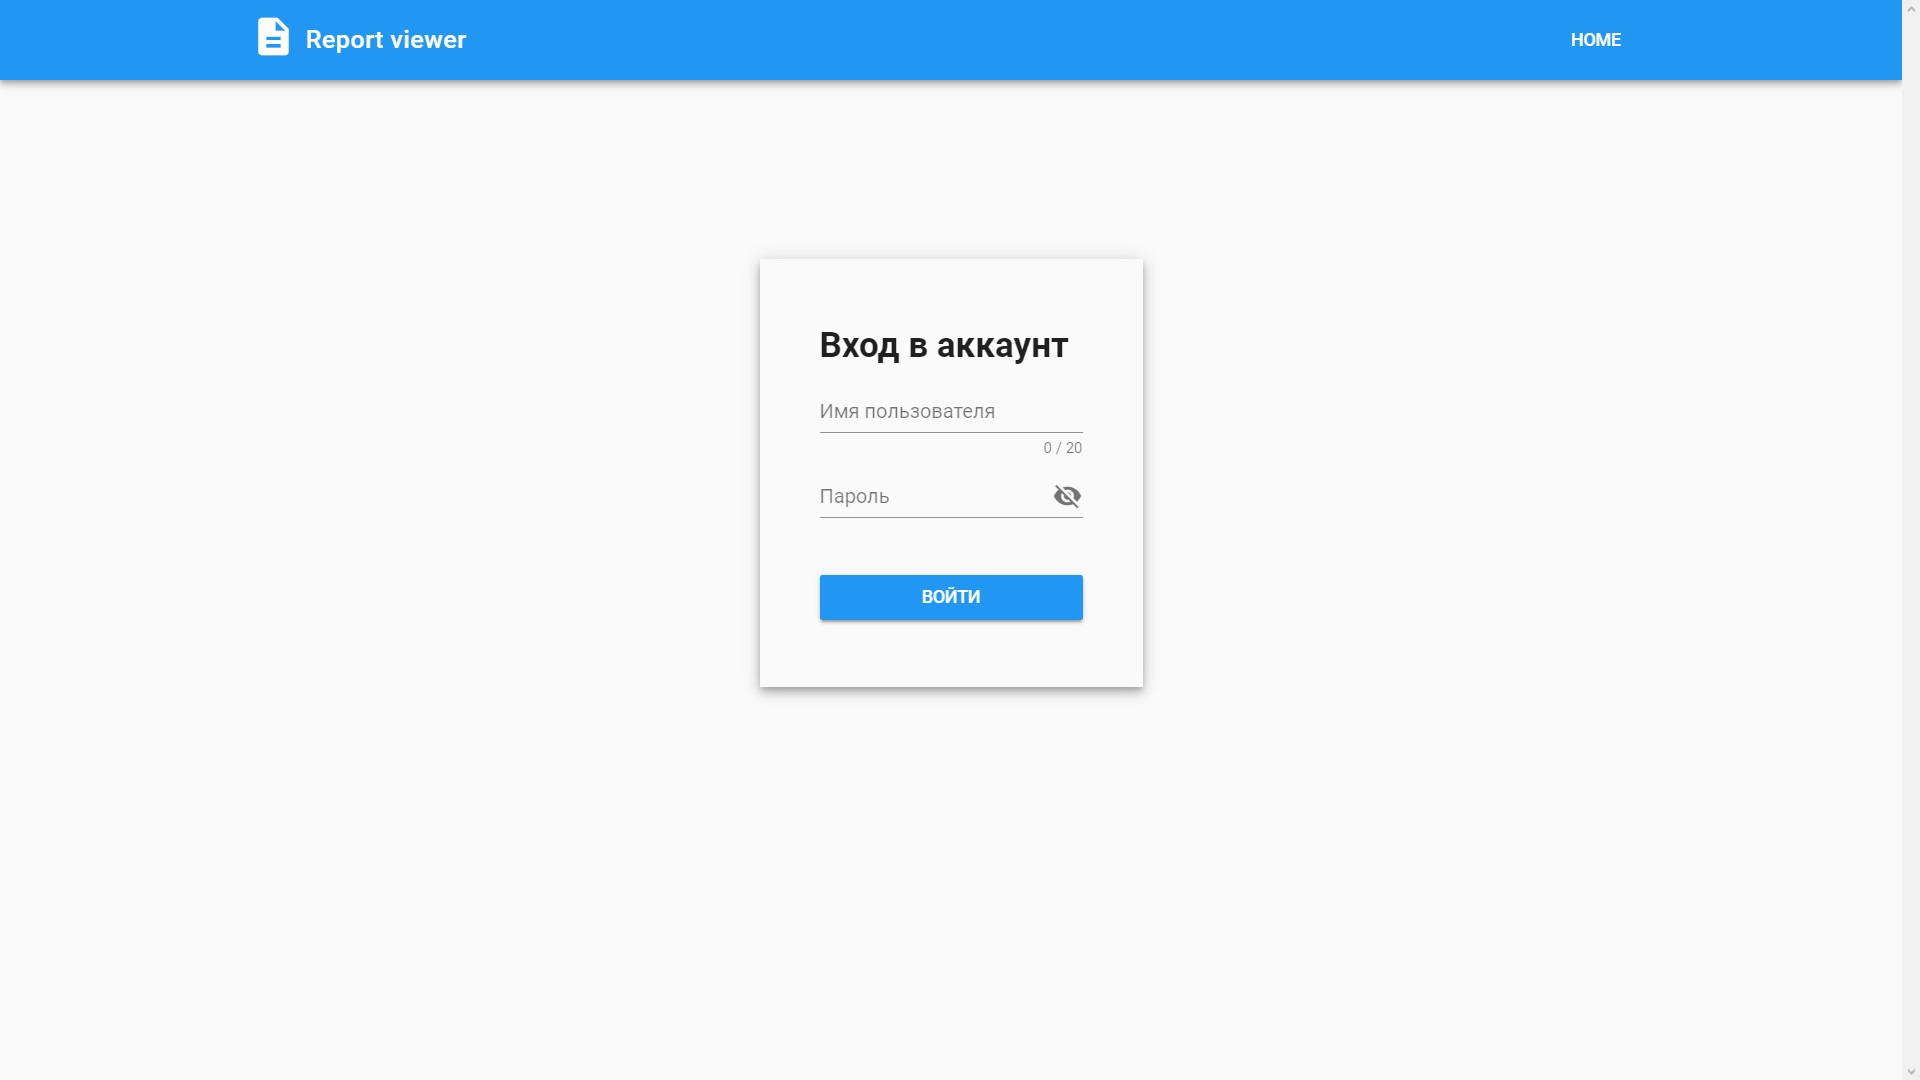
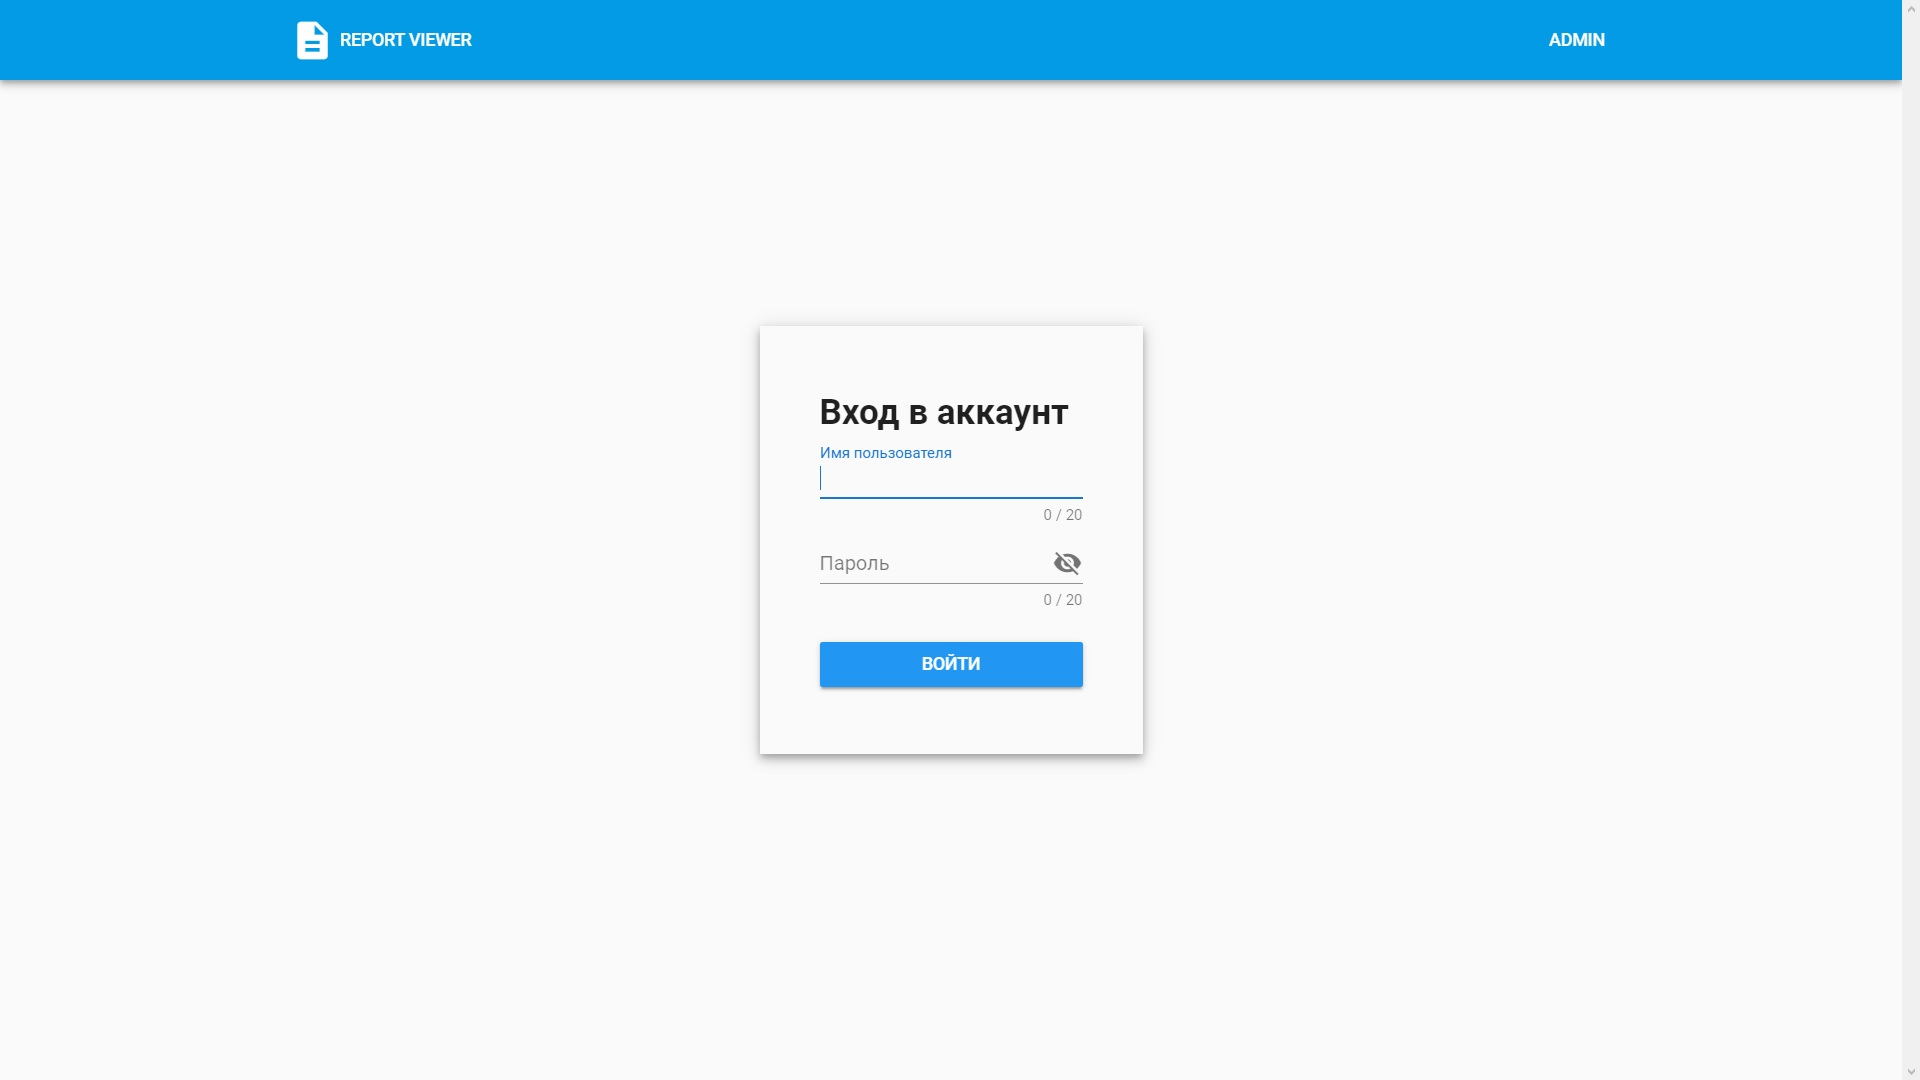
minor UI & UX improvements + docs update

diff --git a/src/components/admin.vue b/src/components/admin.vue
@@ -1,6 +1,6 @@
 <template>
     <v-app>
-        <appheader/>
+        <appheader link="404"/>
         <h1 class="text-xs-center mt-5 pt-5">Панель Администратора</h1>
         <v-layout justify-center row fill-height>
             <v-dialog v-model="openKrits" max-width="600px">
@@ -48,7 +48,7 @@
                         <v-container grid-list-md>
                             <v-form ref="form" lazy-validation>
                                 <v-layout wrap>
-                                    <v-text-field label="Логин" type="text" :counter="20" clearable
+                                    <v-text-field label="Имя пользователя" type="text" :counter="20" clearable
                                                   :rules="[rules.max, rules.required]"
                                                   v-model="newUser.login" class="ma-2"></v-text-field>
                                     <v-text-field label="Пароль" type="text" :counter="20" clearable
@@ -69,6 +69,9 @@
             </v-dialog>
             <br/>
         </v-layout>
+        <v-snackbar v-model="snackbar" top :timeout="4000">
+            {{msg}}
+        </v-snackbar>
     </v-app>
 </template>
 
@@ -83,13 +86,15 @@
             return {
                 rules: {
                     required: value => !!value || 'Должно быть заполнено',
-                    max: e => e.length <= 20 || 'Максимум 20 символов'
+                    max: e => (e && e.length <= 20) || 'Максимум 20 символов'
                 },
                 rows: [],
                 newUser: {login: "", pass: "", role: "Стандарт"},
                 openKrits: false,
                 openUsers: false,
                 openNewUser: false,
+                snackbar: false,
+                msg: "",
             }
         },
         methods: {
@@ -97,13 +102,17 @@
                 this.openKrits = false;
                 axios.post("http://localhost:8001/admin/save", {data: this.rows})
                 // axios.post("http://126e4a8c.ngrok.io/admin/save", {data: this.rows})
-                    .then((res) => {
+                    .then(res => {
+                        if (res.data.saved !== "true") return;
+                        this.msg = "Сохранено!";
+                        this.snackbar = true;
+                        console.log(res.data)
                     })
             },
             getKrits() {
                 axios.post("http://localhost:8001/admin")
                 // axios.post("http://126e4a8c.ngrok.io/admin")
-                    .then((res) => {
+                    .then(res => {
                         this.rows = res.data.splice(1, res.data.length - 1)
                     });
             },
@@ -115,7 +124,13 @@
             sendNewUser() {
                 if (!this.$refs.form.validate()) return;
                 this.openNewUser = false;
-                console.log(this.newUser) //TODO: send new user to server
+                axios.post("http://localhost:8001/admin/newuser", this.newUser)
+                    .then(res => {
+                        if (res.data.userAdded !== "true") return;
+                        this.msg = "Пользователь добавлен";
+                        this.snackbar = true;
+                        console.log(res)
+                    });
             }
         }
     }

diff --git a/src/components/appheader.vue b/src/components/appheader.vue
@@ -1,13 +1,14 @@
 <template>
-    <v-toolbar color="light-blue darken-1" app dark>
-        <v-layout id="title">
-            <v-icon large id="icon">description</v-icon>
-            <v-toolbar-title @click="goHome">Report viewer</v-toolbar-title>
-        </v-layout>
-
+    <v-toolbar color="light-blue darken-1" app dark class="pl-5 pr-5">
+        <v-toolbar-items class="ma-5 pa-5">
+            <v-btn to="/" flat active-class class="ma-5">
+                <v-icon large class="mr-1">description</v-icon>
+                Report viewer
+            </v-btn>
+        </v-toolbar-items>
         <v-spacer/>
-        <v-toolbar-items id="items">
-            <v-btn flat @click="goToLink">
+        <v-toolbar-items class="ma-5 pa-5">
+            <v-btn flat :to="link" class="ma-5">
                 {{link}}
             </v-btn>
         </v-toolbar-items>
@@ -17,35 +18,6 @@
 <script>
     export default {
         name: "appheader",
-        props: ['link'],
-        data() {
-            return {}
-        },
-        methods: {
-            goToLink() {
-                if (this.link === "home") {
-                    this.goHome();
-                    return;
-                }
-                this.$router.push(`${this.link}`)
-            },
-            goHome() {
-                this.$router.push('/');
-            }
-        }
+        props: ['link']
     }
 </script>
-
-<style scoped>
-    #title {
-        cursor: pointer;
-        margin-left: 12%;
-    }
-    #items {
-        margin-right: 12%;
-    }
-    #icon {
-        margin-right: -2%;
-        margin-top: -1%;
-    }
-</style>

diff --git a/src/components/login.vue b/src/components/login.vue
@@ -4,9 +4,9 @@
         <v-layout align-center justify-center column fill-height>
             <v-form ref="form" lazy-validation class="elevation-5 pa-5">
                 <h1>Вход в аккаунт</h1>
-                <v-text-field label="Имя пользователя" type="text" :counter="20" clearable
+                <v-text-field label="Имя пользователя" type="text" counter="20" clearable
                               :rules="[rules.required, rules.max]" v-model="login" autofocus></v-text-field>
-                <v-text-field label="Пароль" type="password" :counter="20" :rules="[rules.required, rules.min, rules.max]"
+                <v-text-field label="Пароль" type="password" counter="20" :rules="[rules.required, rules.min, rules.max]"
                               :type="show ? 'text' : 'password'" :append-icon="show ? 'visibility' : 'visibility_off'"
                               @click:append="show = !show" v-on:keydown.enter="signIn"
                               v-model="pass"></v-text-field>
@@ -34,7 +34,7 @@
                 rules: {
                     required: value => !!value || 'Должно быть заполнено',
                     min: v => v.length >= 8 || 'Минимум 8 символов',
-                    max: e => e.length <= 20 || 'Максимум 20 символов'
+                    max: e => (e && e.length <= 20) || 'Максимум 20 символов'
                 },
                 show: false,
                 login: "",

diff --git a/src/components/pageNotFound.vue b/src/components/pageNotFound.vue
@@ -1,0 +1,22 @@
+<template>
+    <v-app>
+        <appheader link="/"/>
+        <v-layout align-center column justify-center>
+        <h1 class="text-xs-center">404</h1>
+        <h2 class="text-md-center">Здесь ничего нет. Как вы сюда попали?</h2>
+        <v-btn to="/" flat>Вернуться домой</v-btn>
+        </v-layout>
+    </v-app>
+</template>
+
+<script>
+    import Appheader from "@/components/appheader";
+    export default {
+        name: "pageNotFound",
+        components: {Appheader}
+    }
+</script>
+
+<style scoped>
+
+</style>

diff --git a/src/router.js b/src/router.js
@@ -4,6 +4,7 @@ import login from "@/components/login";
 import home from "@/components/home";
 import apptable from "@/components/apptable";
 import admin from "@/components/admin";
+import pageNotFound from "@/components/pageNotFound";
 
 Vue.use(Router);
 
@@ -25,6 +26,11 @@ export default new Router({
             path: '/admin',
             name: 'adminpage',
             component: admin
+        },
+        {
+            path: '*',
+            name: 'PageNotFound',
+            component: pageNotFound
         }
     ]
 })

diff --git a/server.js b/server.js
@@ -87,7 +87,13 @@ app.post('/admin', (req, res) => {
 app.post('/admin/save', jsonParser, (req, res) => {
     // console.log(req.body);
     if (sheet[0].name === "Сводный отчёт") sheet.splice(0, 1);
-    getConsolidatedReport(req.body.data)
+    getConsolidatedReport(req.body.data);
+    res.json({"saved": "true"})
+});
+
+app.post('/admin/newuser', jsonParser, (req, res) => {
+    console.log(req.body);
+    res.json({"userAdded": "true"})
 });
 
 const port = 8001;

diff --git a/README.md b/README.md
@@ -7,14 +7,16 @@ Stack of the tools:
 * Vue.js
   * Vuetify
   * Vue-router
-* Node.js (Django (maybe))
-* Maybe another tool that can help with parsing .xlsx and Google tables 
+* Node.js
+* Maybe another tool that can help with parsing Google tables 
 * Maybe another useful plugin for Vue (like Vuex)
 
 ## Home page
 ![home page](/docs/images/RV-home.jpg "Home Page")
 ## Login page
 ![login page](/docs/images/RV-login.jpg "Login Page")
+## 404 page
+![404 page](/docs/images/RV-404.jpg "404 Page")
 
 
 ## Project setup
@@ -32,15 +34,7 @@ npm run serve
 npm run build
 ```
 
-### Run your tests
+### Starts Node server
 ```
-npm run test
+node server.js
 ```
-
-### Lints and fixes files
-```
-npm run lint
-```
-
-### Customize configuration
-See [Configuration Reference](https://cli.vuejs.org/config/).
